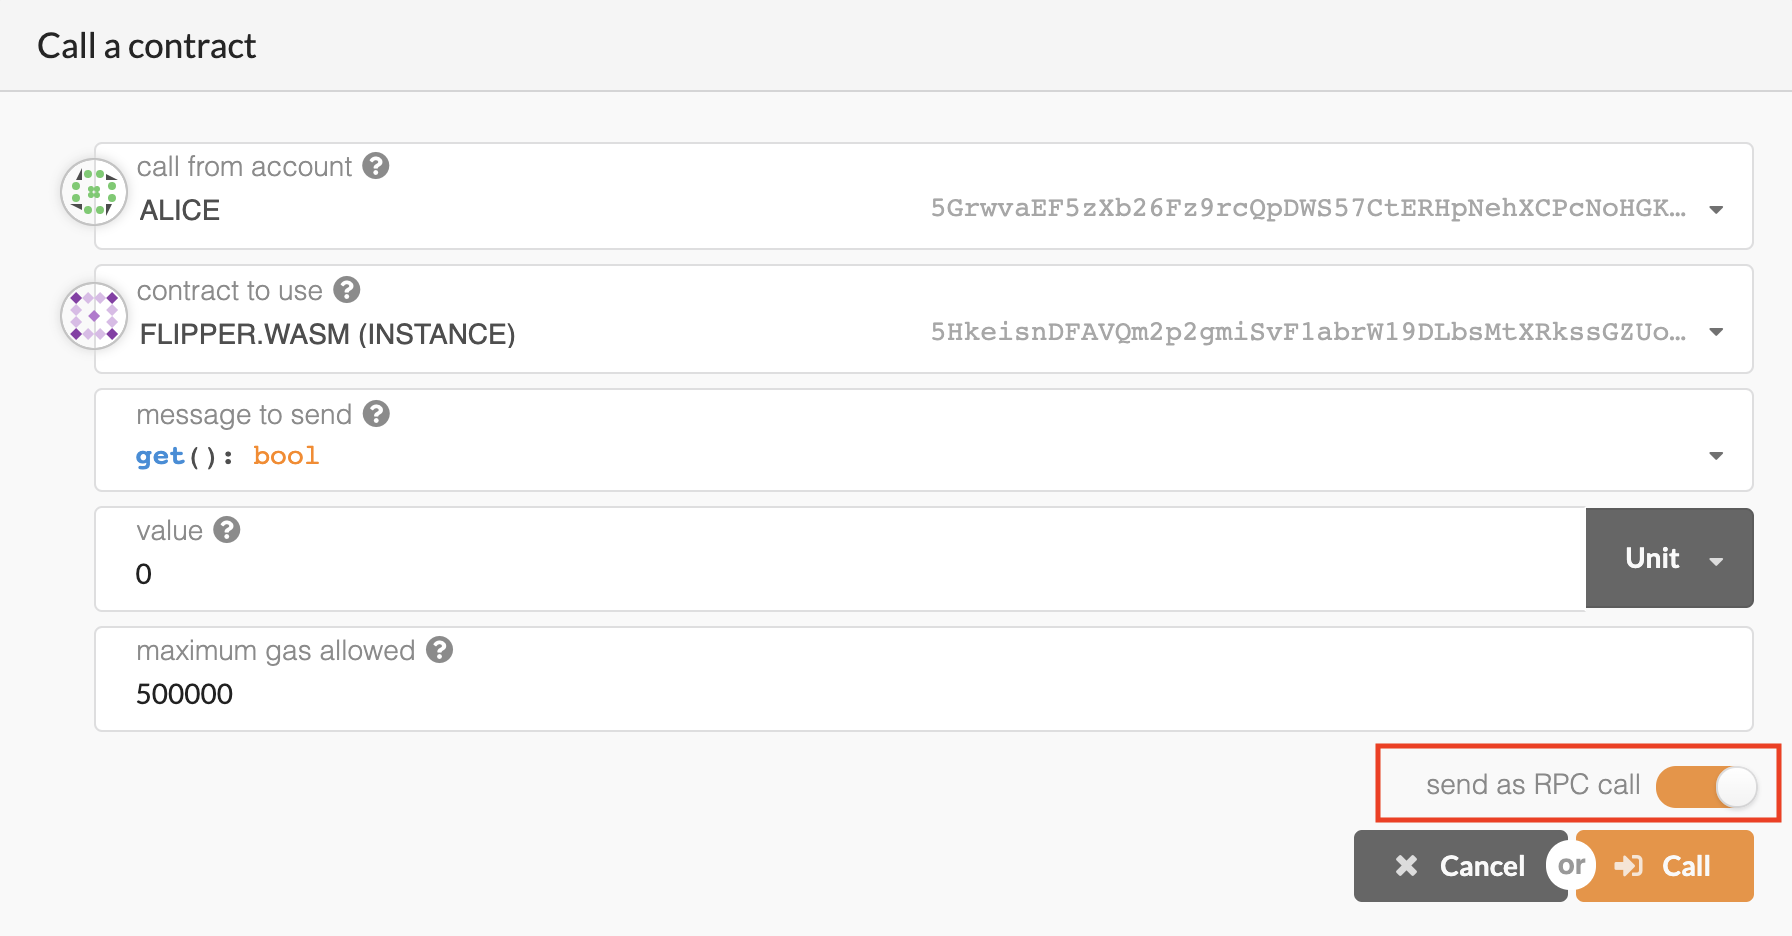
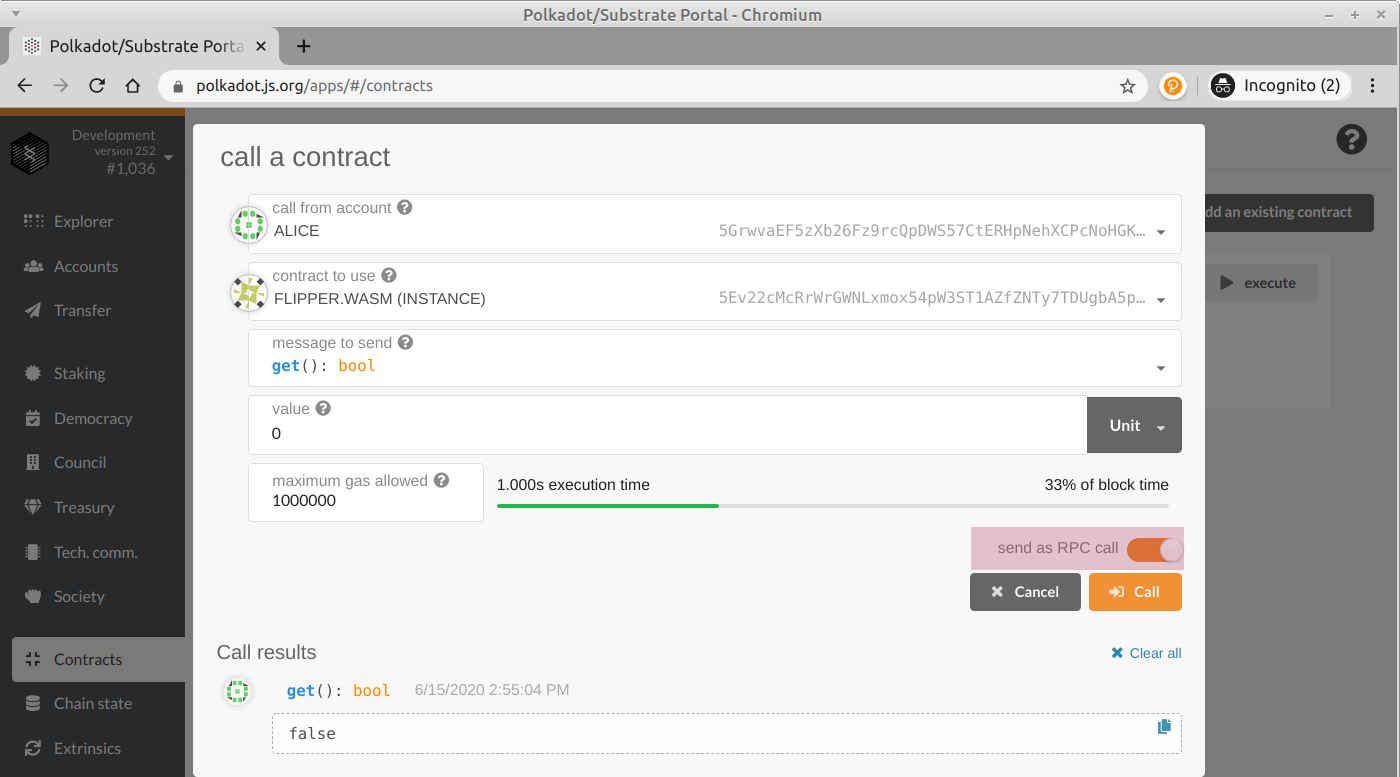
Update assets

diff --git a/0/deploying-your-contract.md b/0/deploying-your-contract.md
@@ -20,28 +20,30 @@ With your Substrate development node running, you can go back to the [Polkadot U
 
 Open the specially designed **Contracts** section of the UI.
 
-In the **Code** section, select "Upload Wasm".
+In the **Code** section, select **"Upload Wasm"**.
 
-In the popup, select a _deployment account_ with some account balance, like `Alice`. In _compiled contract WASM_, select the `flipper.wasm` file we generated. For the _contract ABI_, select the JSON file. Finally, set the _maximum gas allowed_ to `500,000` units.
+In the popup, select a _deployment account_ with some account balance, like `Alice`. In _compiled contract WASM_, select the `flipper.wasm` file we generated. For the _contract's metadata_, select the JSON file.
 
 ![Contracts code page for deploying Flipper](./assets/flipper-code-page.png)
 
-After you press **Upload** and a new block is formed, a system event is emitted with `contracts.PutCode queued`. This means that the UI is waiting for you to `Sign and Submit` the extrinsic. If the transaction succeeds you will get an `system.ExtrinsicSuccess` event and your WASM contract will be stored on your Substrate blockchain!
+After you press **Upload** and **Sign and Submit** the extrinsic, a new block is formed and a system event is emitted with `contracts.PutCode`. If the transaction succeeds you will get an `system.ExtrinsicSuccess` event and your WASM contract will be stored on your Substrate blockchain!
 
-> **Note:** If you get a `system.ExtrinsicFailed` error message, you may not have allowed enough gas to execute the call.  You can verify that this is the cause by looking at the logs in the terminal. This may occur on this or any subsequent contract instantiations or calls.  If this occurs, increase the _maximum gas allowed_ argument and try again.
+![An image of events from Flipper code upload](./assets/flipper-upload-events.png)
+
+> **Note:** If you get a `system.ExtrinsicFailed` error message, you may not have allowed enough gas to execute the call.  You can verify that this is the cause by looking at the logs in the terminal. This may occur on this or any subsequent contract instantiations or calls.
 
 ## Creating an Instance of Your Contract
 
 Smart contracts exist as an extension of the account system on the blockchain. Thus creating an instance of this contract will create a new `AccountId` which will store any balance managed by the smart contract and allow us to interact with the contract.
 
-You will notice on the **Code** tab there is a new object that represents our smart contract. We now need to deploy our smart contract to create an **instance**. Press the "Deploy" button on the flipper contract.
+You will notice on the **Code** tab there is a new object that represents our smart contract. We now need to deploy our smart contract to create an **instance**. Press the **"Deploy"** button on the flipper contract.
 
-To instantiate our contract we just need to give this contract account an _endowment_ of `1,000` in order to pay the storage rent and again set the _maximum gas allowed_ to default value(`100000000000`) units:
+To instantiate our contract we just need to give this contract account an _endowment_ of `1,000,000` in order to pay the storage rent and again set the _maximum gas allowed_ to default value(`1,000,000`) units:
 
 ![An image of the Contracts Instance Page](./assets/flipper-instance-page.png)
 
 > **Note:** As mentioned earlier, contract creation involves creation of a new Account. As such, you must be sure to give the contract account at least the existential deposit defined by your blockchain. We also need to be able to pay the contract's rent (_`endowment`_). If we consume all of this deposit, the contract will become invalid. We can always refill the contract's balance and keep it on chain.
 
-When you press **Deploy**, you should see a flurry of events appear including the creation of a new account (`balances.NewAccount`) and the instantiation of the contract (`contracts.instantiate`):
+When you press **Deploy**, you should see a flurry of events appear including the creation of a new account (`system.NewAccount`) and the instantiation of the contract (`contracts.instantiate`):
 
 ![An image of events from instantiation of Flipper](./assets/flipper-instance-events.png)

diff --git a/0/calling-your-contract.md b/0/calling-your-contract.md
@@ -7,13 +7,13 @@ Now that your contract has been fully deployed, we can start to interact with it
 
 If you take a look back at our contract's `on_deploy()` function, we set the initial value of the Flipper contract to `false`. Let's check that this is the case.
 
-In the **Contracts** section, press the "execute" button:
+In the **Contracts** section, press the **"execute"** button:
 
-![An image of the Contracts call page](./assets/flipper-call-page.png)
+![An image of the Contracts call page](./assets/send-as-rpc.png)
 
-Set the _message to send_ to `get(): bool`. Set the _maximum gas allowed_ to `500,000`.
+Set the _message to send_ to `get(): bool`. Set the _maximum gas allowed_ to `1,000,000`.
 
-When you press "Call" you will see it returns the value `false`:
+When you press **"Call"** you will see it returns the value `false`:
 
 ![An image of Flipper RPC call with false](./assets/flipper-false.png)
 
@@ -25,7 +25,9 @@ When you press "Call" you will see it returns the value `false`:
 
 So let's make the value turn `true` now!
 
-The alternative _message to send_ we can make with the UI is `flip()`. Again, set the _maximum gas allowed_ to `500,000`.
+The alternative _message to send_ we can make with the UI is `flip()`. Again, set the _maximum gas allowed_ to `1,000,000`.
+
+![An image of the Contracts extrinsic page](./assets/send-as-transaction.png)
 
 You will notice that this call actually sends a transaction. If the transaction was successful, we should then be able to go back to the `get()` function and see our updated storage:
 

diff --git a/0/setup.md b/0/setup.md
@@ -21,7 +21,7 @@ If you are using another operating system, like __Windows__, follow the [install
 
 ## Installing A Substrate Node
 
-We need to use a Substrate node with the built-in Contracts module. For this workshop we'll use the pre-designed Substrate Node Client.
+We need to use a Substrate node with the built-in Contracts module. For this workshop we'll use the pre-designed Substrate node client.
 ```bash
 cargo install node-cli --git https://github.com/paritytech/substrate.git --force
 ```
